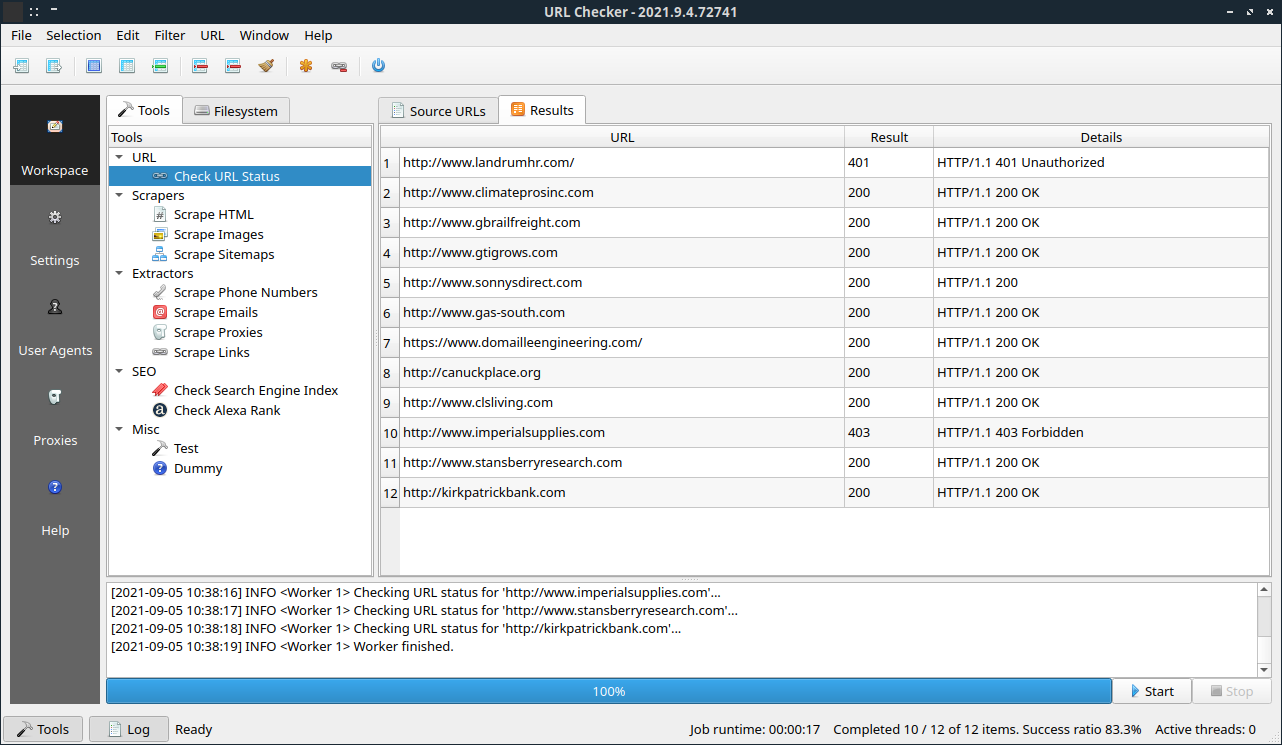
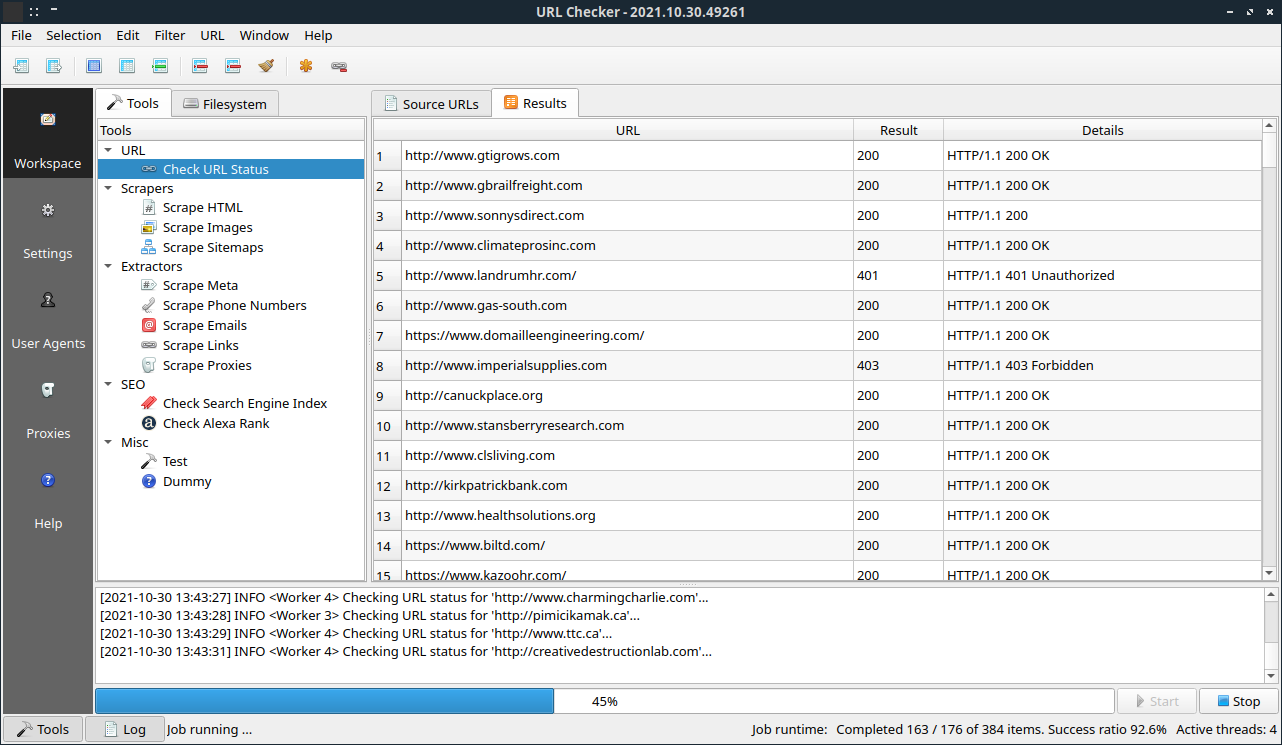
Updated application version

Changed region(s): [[0.0, 0.0926, 0.9984, 0.9879], [0.4056, 0.0, 0.5928, 0.0309]]

diff --git a/src/application/version.h b/src/application/version.h
@@ -1,3 +1,3 @@
 #pragma once
 
-#define APPLICATION_VERSION "2021.9.4.72741"
+#define APPLICATION_VERSION "2021.10.30.49261"
